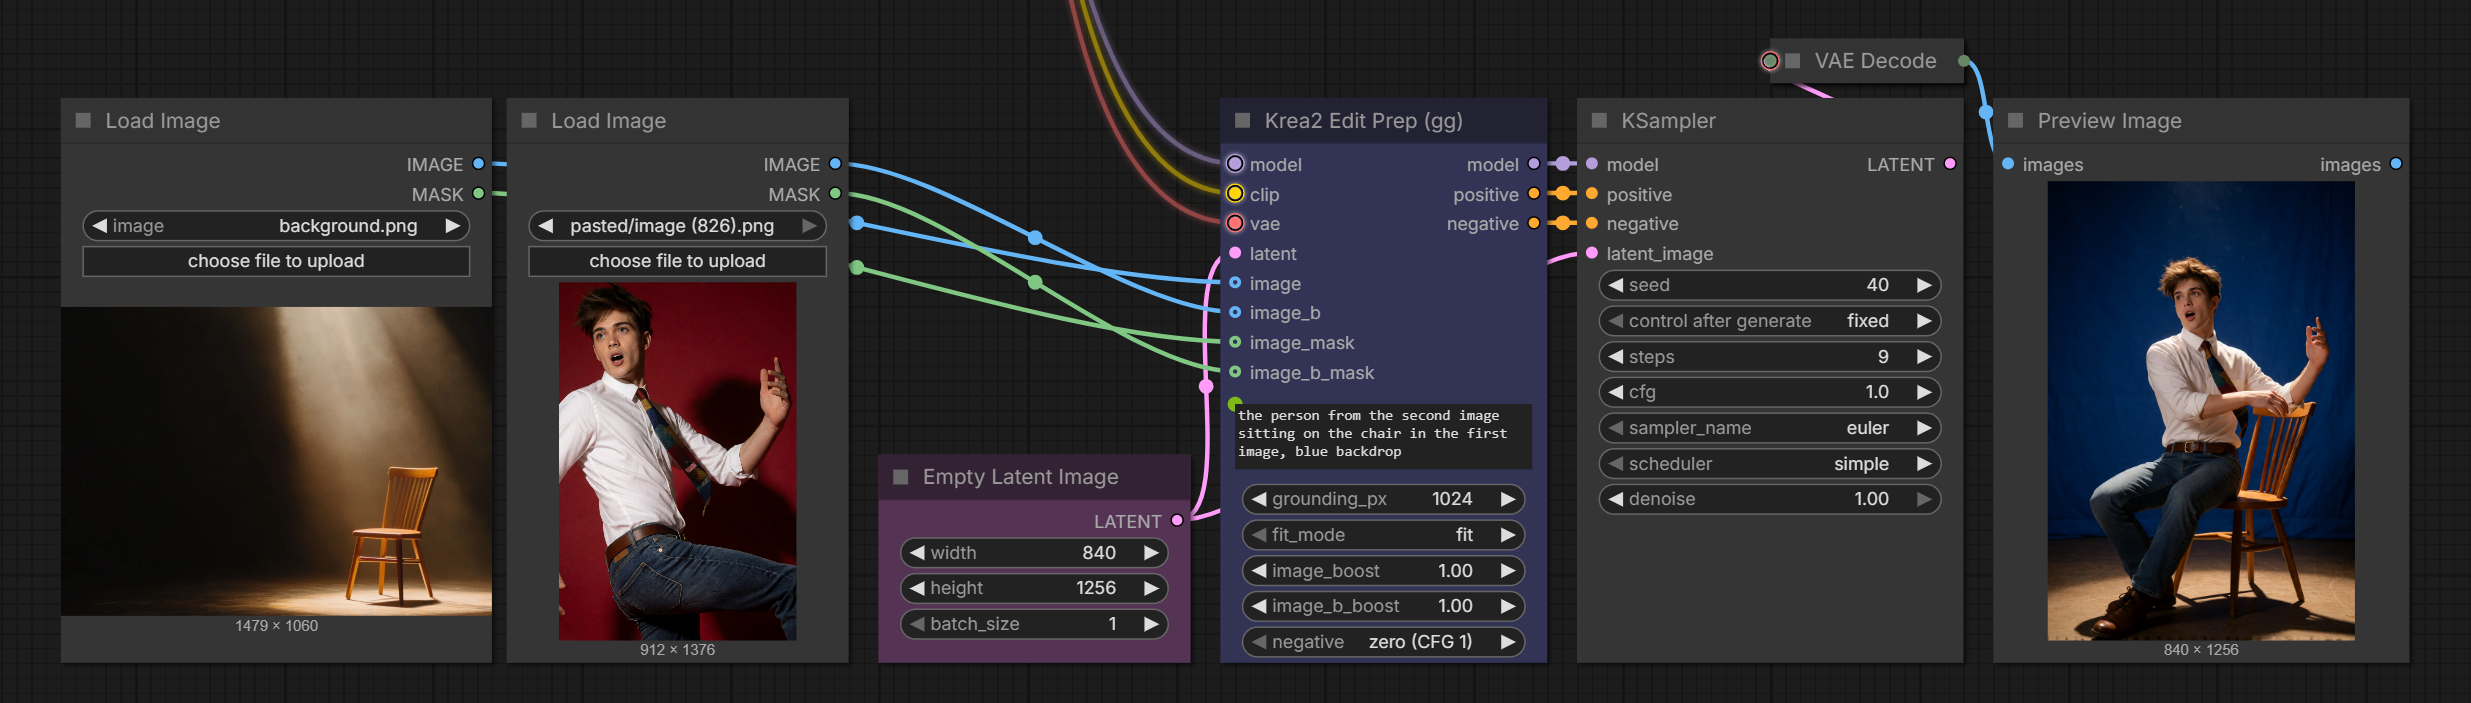
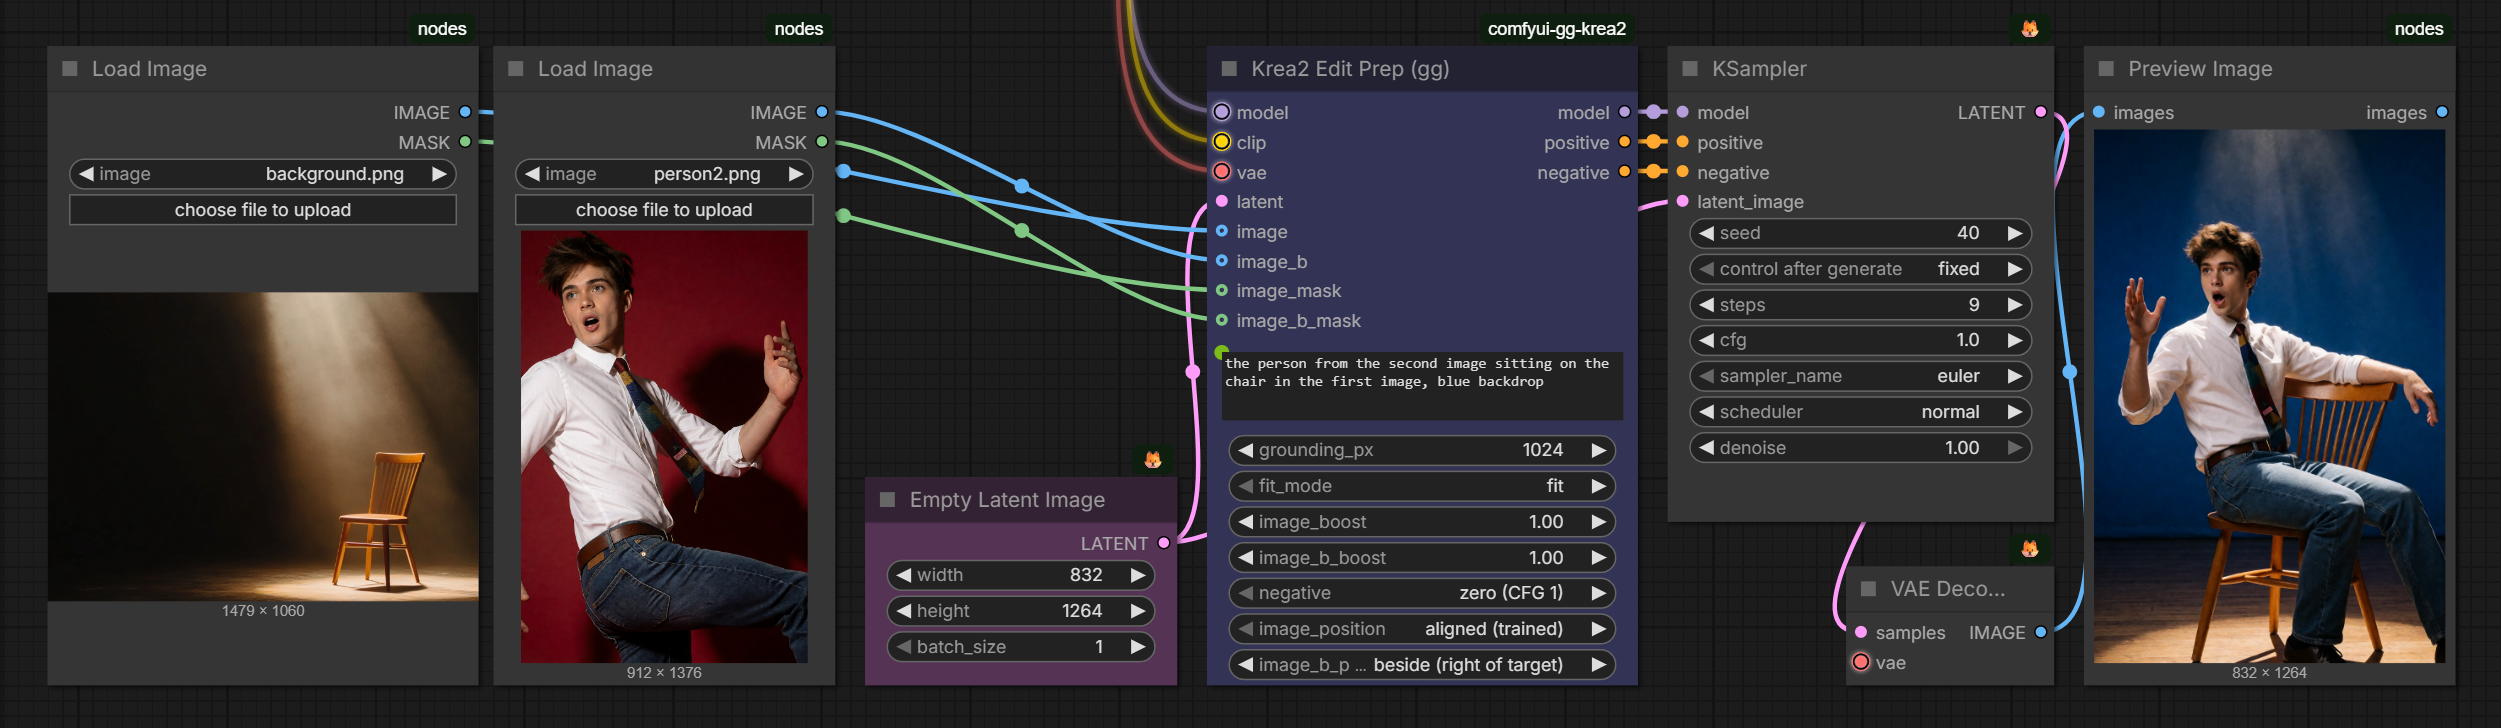
Mark the node as a comfyui-krea2edit add-on

diff --git a/__init__.py b/__init__.py
@@ -49,7 +49,7 @@ class Krea2EditPrep:
     RETURN_TYPES = ("MODEL", "CONDITIONING", "CONDITIONING")
     RETURN_NAMES = ("model", "positive", "negative")
     FUNCTION = "prep"
-    CATEGORY = "krea2edit"
+    CATEGORY = "krea2edit/gg"
     DESCRIPTION = ("Prepares model and conditioning for KSampler from zero, one or two reference images: "
                    "no image = text-to-image with the model unpatched, one image = single-reference edit, "
                    "two = scene + subject. A boost of 0 leaves that image out.")

diff --git a/README.md b/README.md
@@ -4,6 +4,8 @@
 
 # GG Krea2
 
+*An add-on node for [comfyui-krea2edit](https://github.com/lbouaraba/comfyui-krea2edit) by lbouaraba. Not part of that pack; install it first.*
+
 **Krea2 Edit Prep (gg)** turns zero, one or two reference images into a ready `model`, `positive` and `negative` for a KSampler, for Krea 2 with a Krea 2 Edit LoRA. It runs the Krea2 Edit nodes (grounded encode and source patch) internally, so you don't place them yourself.
 
 ![The same scene and person through each route: both images put the person on the chair under the scene's spotlight; image only keeps the scene with a generic person; image_b only keeps the person in a plain studio; no image gives a generic text-to-image result.](assets/readme/routes.jpg)
@@ -27,7 +29,7 @@ cd ComfyUI/custom_nodes
 git clone https://github.com/xducer/comfyui-gg-krea2.git
 ```
 
-Restart ComfyUI. The node is under **krea2edit** as **Krea2 Edit Prep (gg)**.
+Restart ComfyUI. The node is under **krea2edit → gg** as **Krea2 Edit Prep (gg)**.
 
 ## Wiring
 
